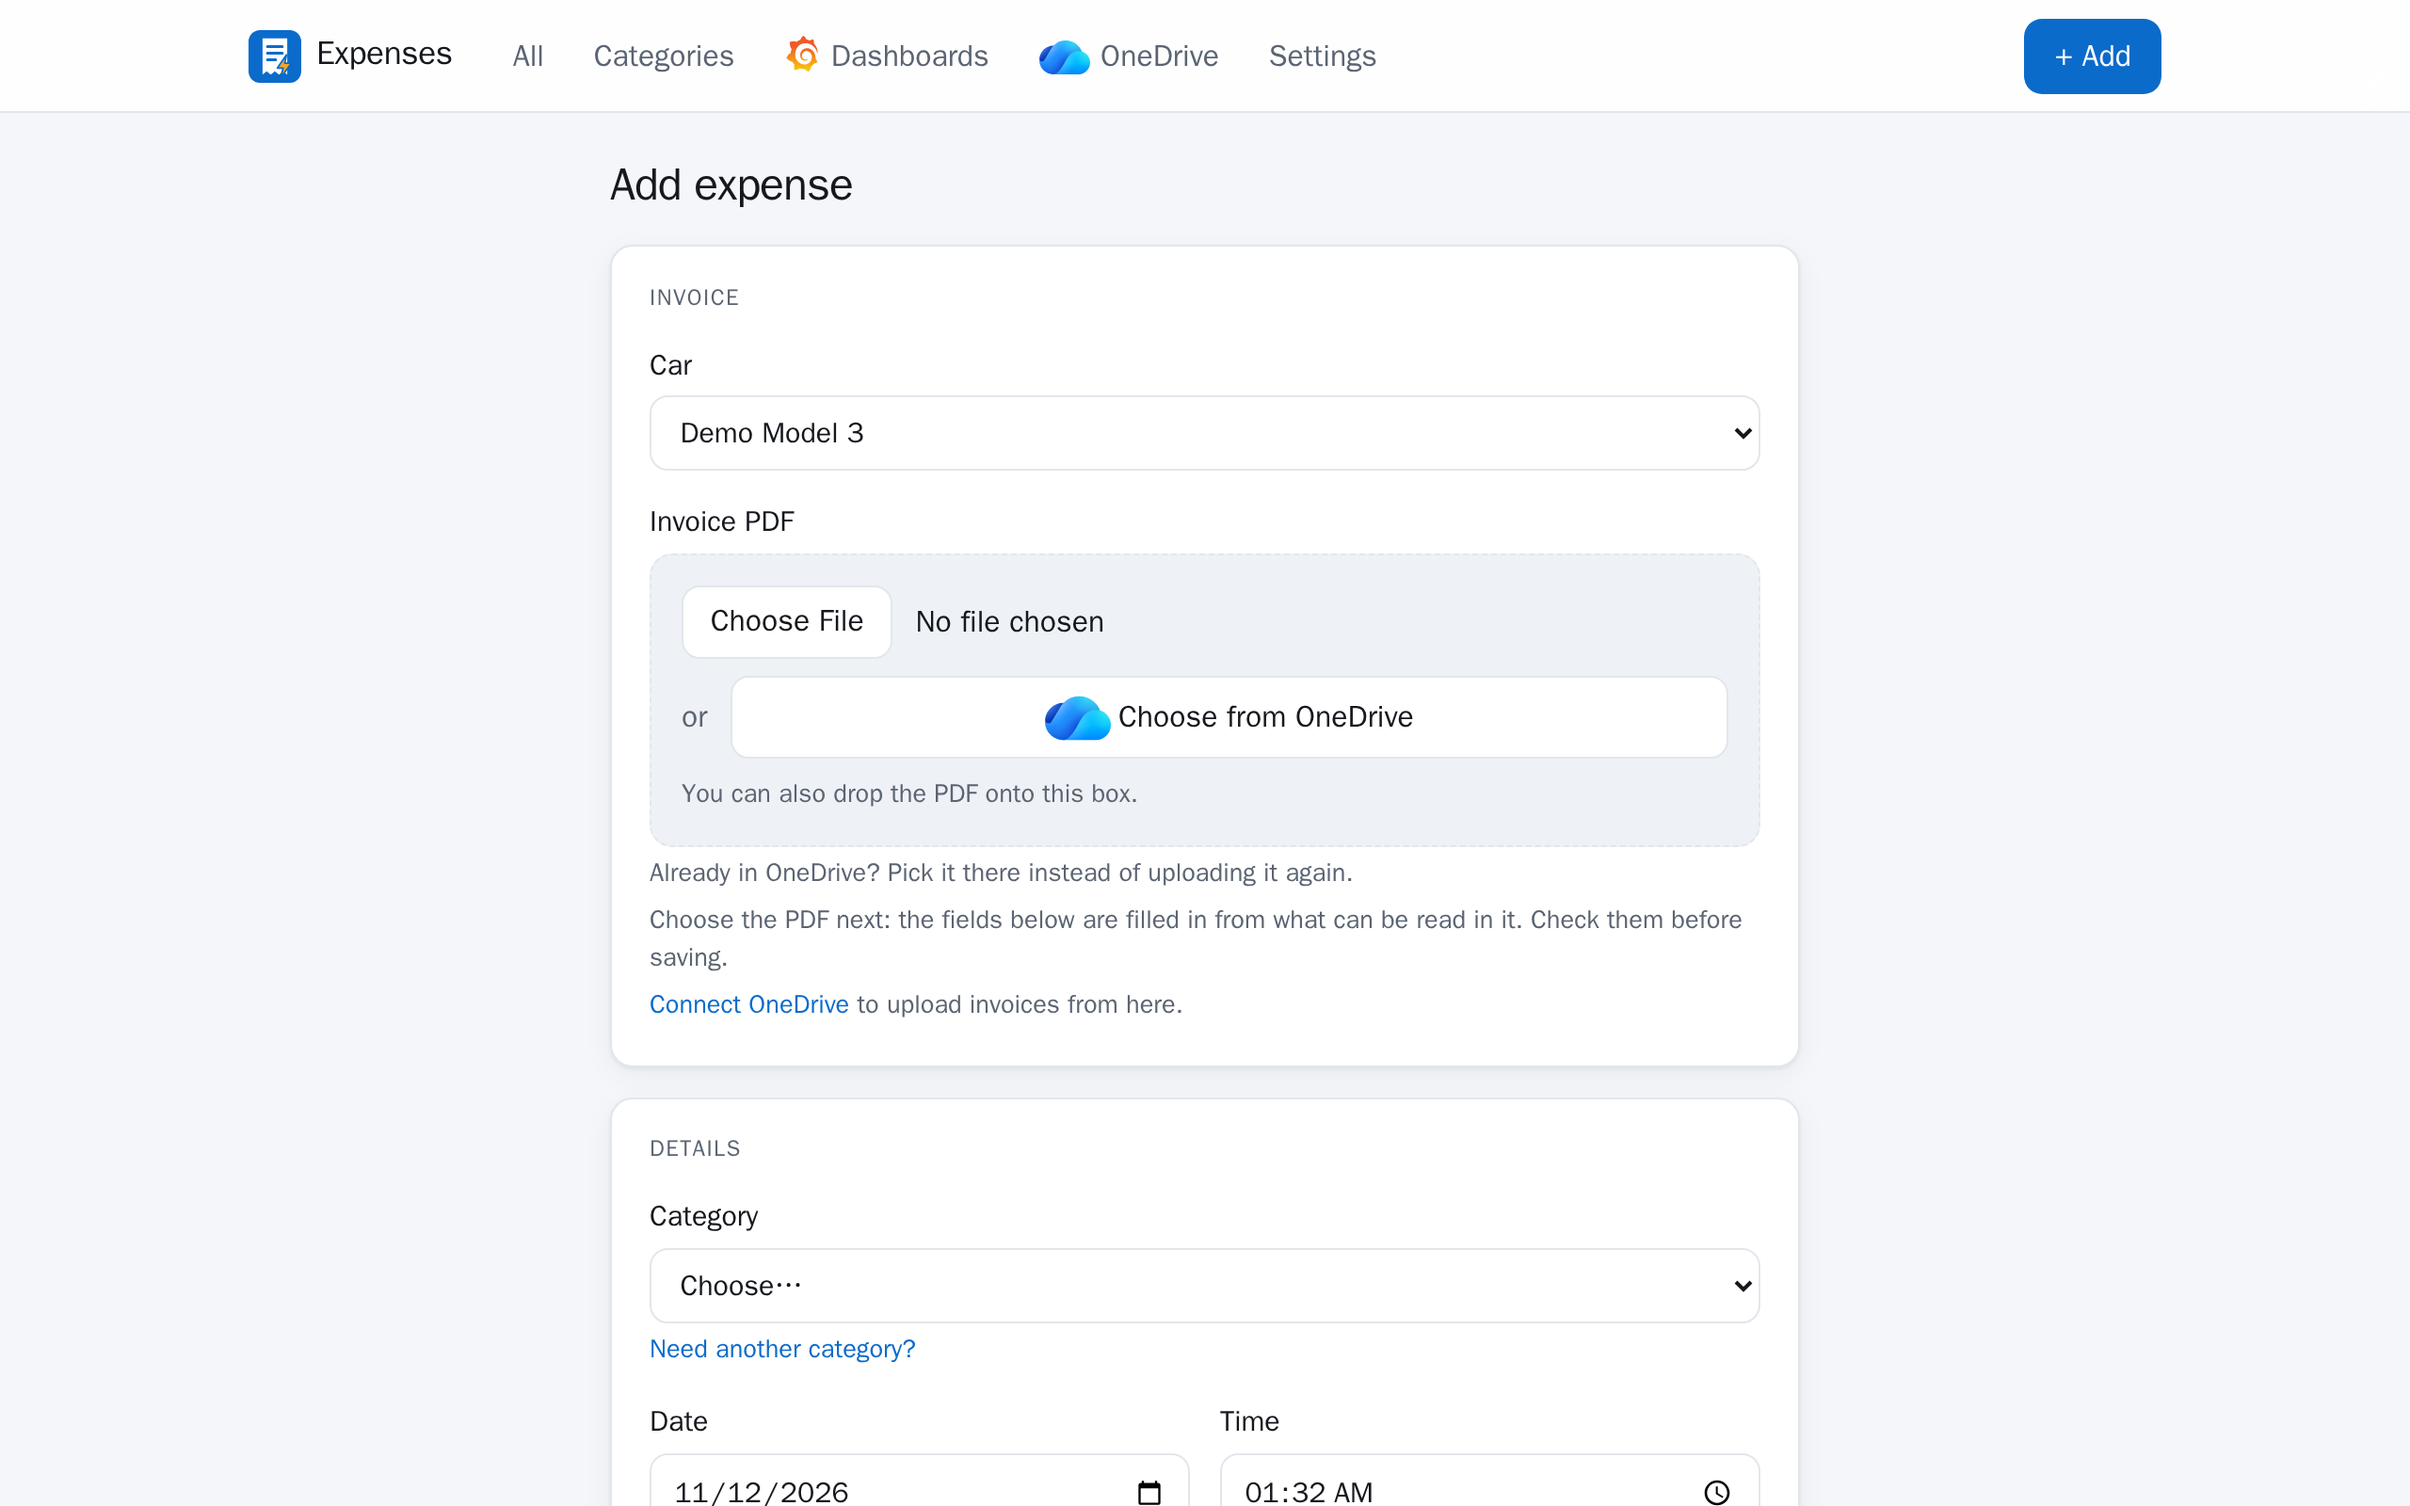
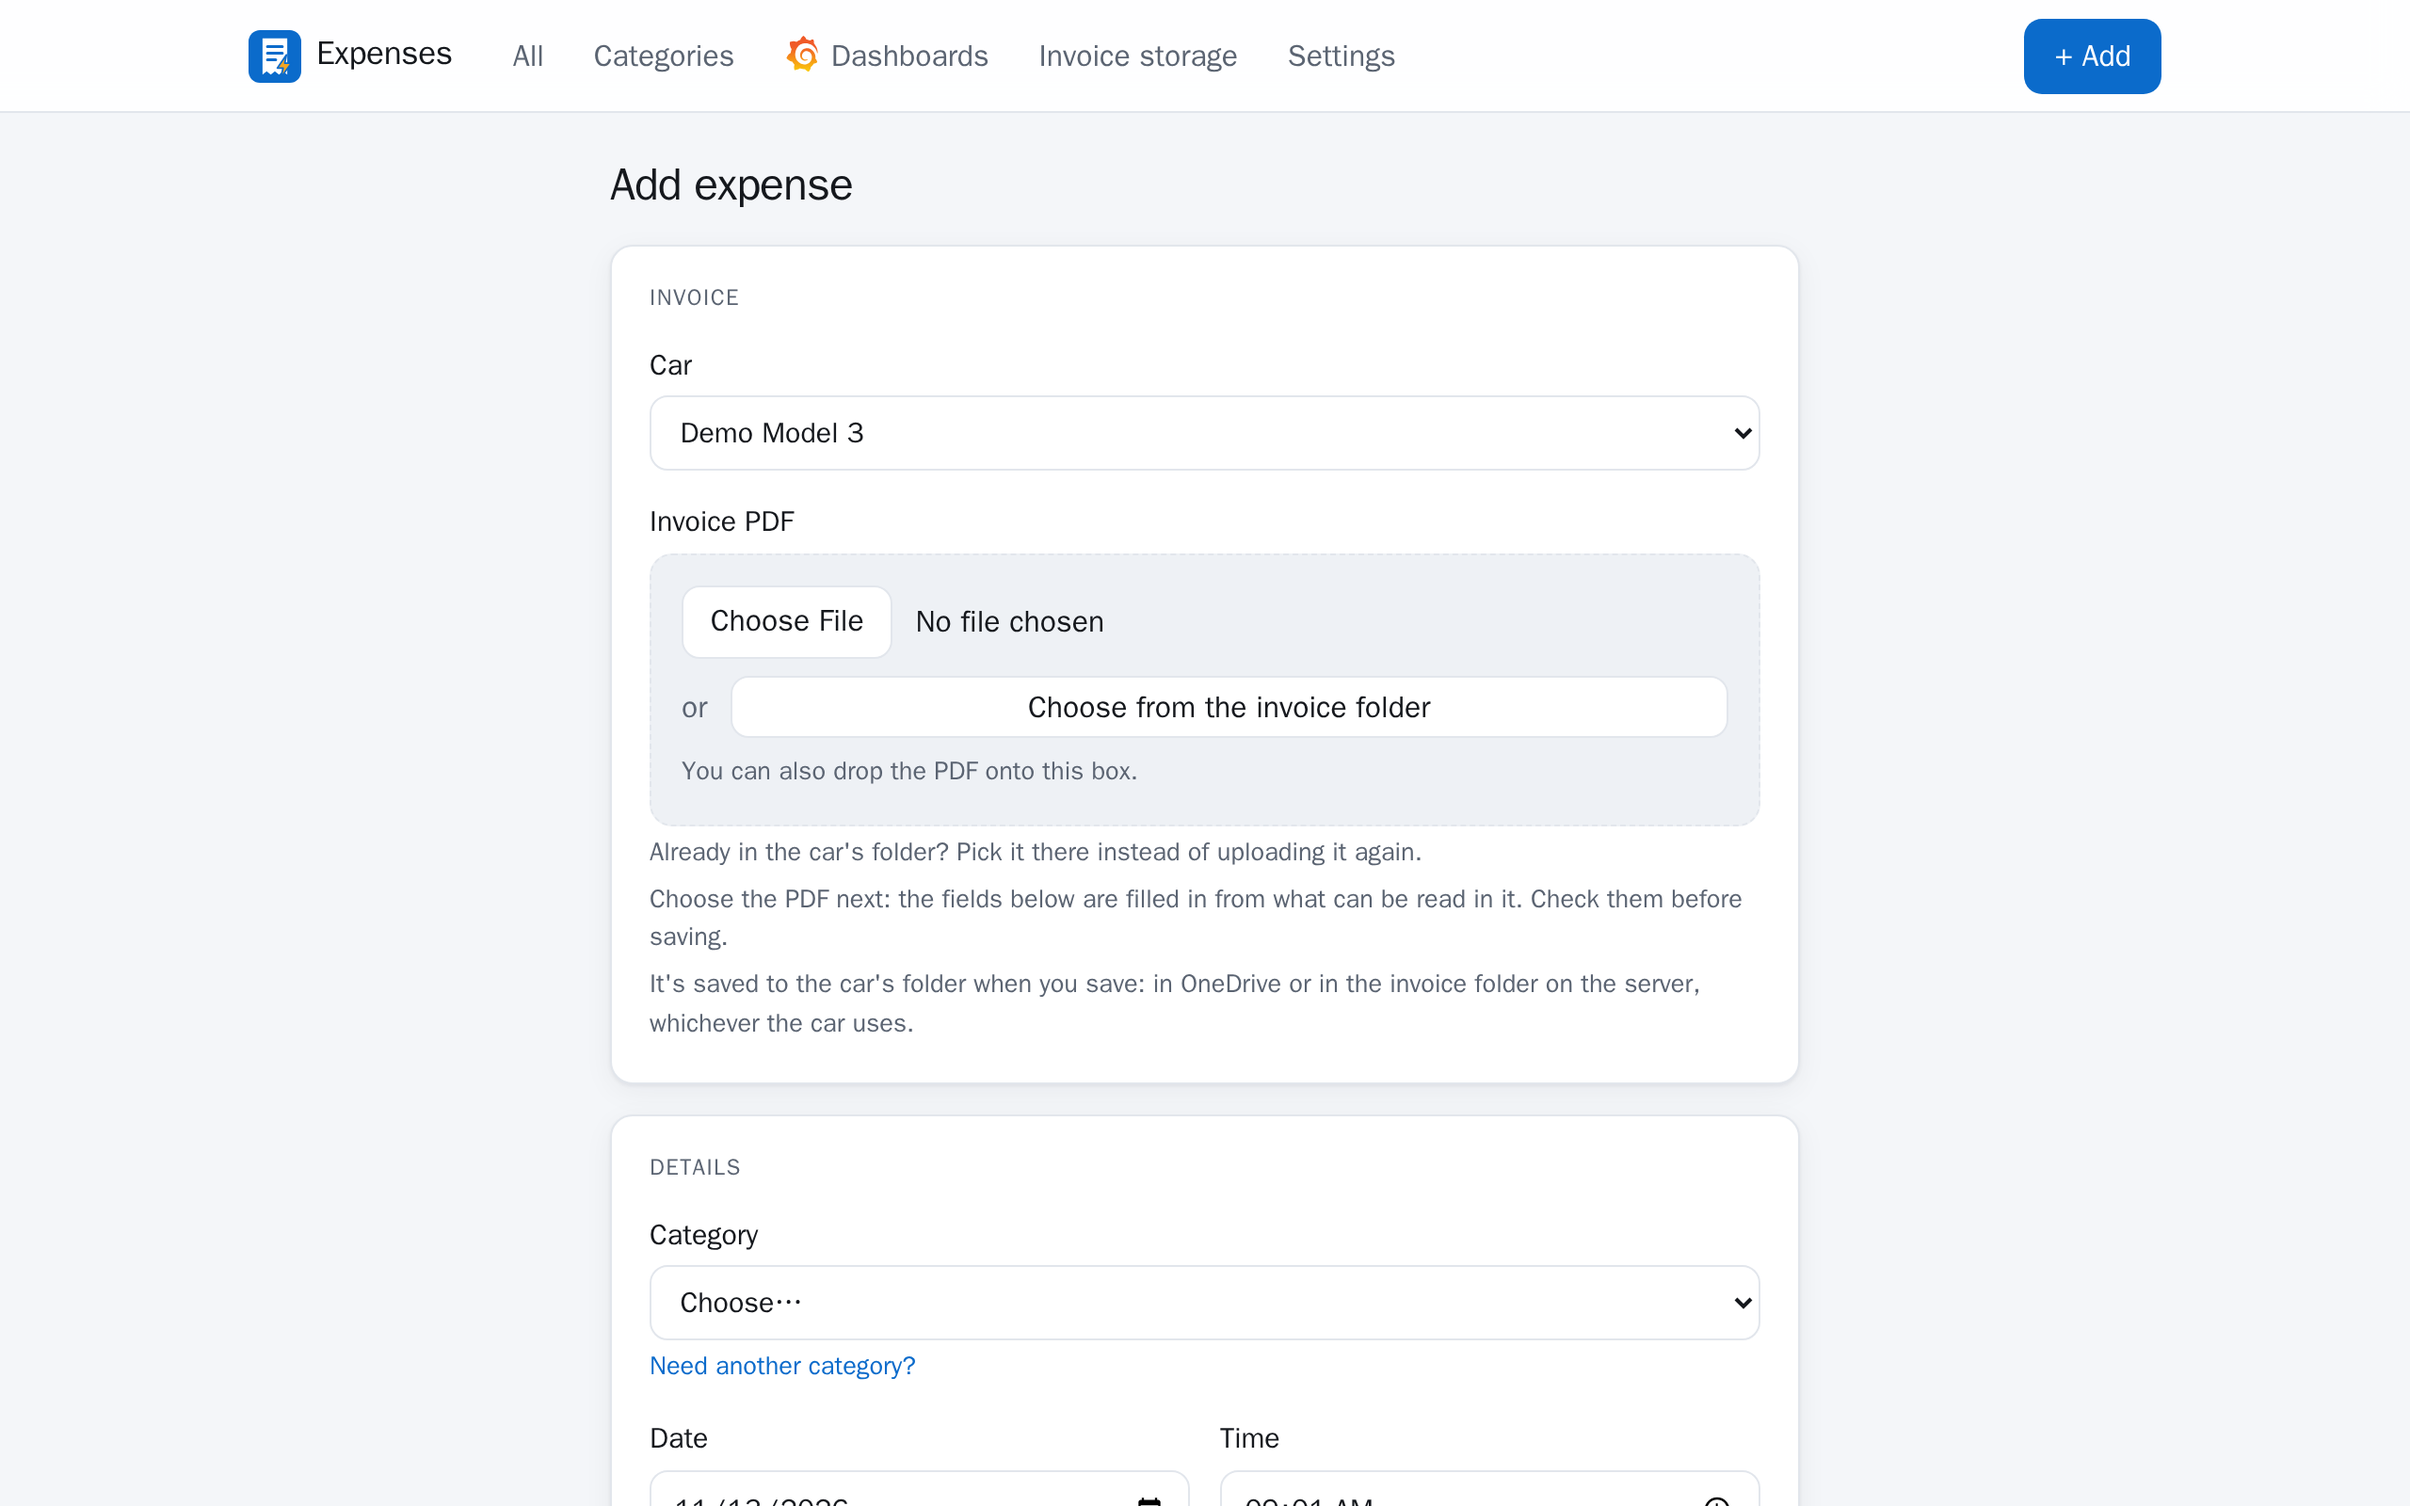
Docs: screenshots of Invoice storage, the folder window and the import preview
Taken from the demo stack, which now starts with made-up invoices in its
invoice folder and its car pointed at them (and shows an example path, not
this checkout's). The list, form and settings screenshots are retaken: the
header has one Invoice storage link where the OneDrive link was.

diff --git a/tests/browser/screenshots.py b/tests/browser/screenshots.py
@@ -6,6 +6,7 @@ It only reads: no expense is added, edited or deleted. Files go to OUT, named af
 """
 
 import os
+import re
 
 from playwright.sync_api import expect, sync_playwright
 
@@ -41,6 +42,22 @@ def main():
         page.fill("[name=grafana_url]", "https://teslamate.example.com/grafana/d/tm-expenses-tco/cost-of-ownership")
         page.fill("[name=expenses_url]", "https://teslamate.example.com/expenses/")
         shot(page, "settings-page", full_page=True)
+
+        # Invoice storage. The OneDrive card's setup steps show this stack's own callback address:
+        # fold them away, as they are once OneDrive is set up.
+        page.goto(UI + "storage")
+        page.evaluate("document.querySelectorAll('details').forEach((d) => { d.open = false; })")
+        shot(page, "storage-page", full_page=True)
+        car = re.search(r"local/import/(\d+)", page.locator("a[href*='local/import/']").first.get_attribute("href")).group(1)
+        page.goto(UI + "new")
+        page.click("#onedrive-pick")
+        expect(page.locator("#onedrive-picker-path")).to_have_text("/Sample invoices")
+        expect(page.locator("#onedrive-picker-list li").first).to_be_visible()
+        shot(page, "local-folder-picker")
+        # The import preview of the made-up invoices `demo up` put in the folder. Nothing is imported.
+        page.goto(UI + f"local/import/{car}")
+        expect(page.locator("#import-status-text")).to_have_text(re.compile(r"^Read \d+ PDF"), timeout=180000)
+        shot(page, "import-preview", full_page=True)
 
         big = browser.new_context(viewport={"width": 1600, "height": 1800}, device_scale_factor=1,
                                   color_scheme="light", locale="en-AU")

diff --git a/docs/local-folder.md b/docs/local-folder.md
@@ -11,7 +11,7 @@ folder you chose for that car. Invoices already in the folder can be
 [imported](importing.md), with the same preview and learning. Both can be on at once: each car uses
 one or the other.
 
-<!-- screenshot: storage-page - The Invoice storage page, with the folder on the server and a folder chosen for a car -->
+![The Invoice storage page, with the folder on the server and a folder chosen for a car](images/storage-page.png)
 
 ## Turning it on
 
@@ -117,7 +117,7 @@ opens over the form, in the car's folder: open a folder to go into it, or **Up**
 far as the top of the mounted folder. Choosing a PDF makes it the expense's invoice and fills in the
 form from what can be read in it. Nothing is copied or moved.
 
-<!-- screenshot: local-folder-picker - The invoice folder window on the Add expense form, listing folders and PDFs -->
+![The invoice folder window on the Add expense form, listing folders and PDFs](images/local-folder-picker.png)
 
 **Opening an invoice.** The **PDF** link in the expense list opens it in the browser's own PDF
 viewer. The edit page shows the file's name, with a **Download** link beside it, and a box to remove

diff --git a/CHANGELOG.md b/CHANGELOG.md
@@ -23,7 +23,8 @@ Each entry says what an installer must do to upgrade. Where nothing is said, pul
   (docs, "Invoice folder on the server"). To upgrade without it, pull the new image; the app adds two
   columns to its own tables on start. With a least-privilege role (`SKIP_MIGRATE=1`), re-run
   `scripts/provision-db.sh` as for any upgrade.
-- Docs and README: screenshots of the expense list, form, settings and Grafana dashboard.
+- Docs and README: screenshots of the expense list, form, settings, Grafana dashboard, the Invoice
+  storage page, the invoice folder window and the import preview.
 
 ## 0.2.0-rc5 - 2026-11-11
 

diff --git a/docs/importing.md b/docs/importing.md
@@ -12,7 +12,7 @@ importing (a brochure, say) and they stop being offered; **Offer them again** at
 brings them back. When you press Import with some files left unticked, the page asks whether to
 skip those too; choose Cancel to leave them for next time.
 
-<!-- screenshot: import-preview - The import table, with its guesses to check, correct and untick -->
+![The import table, with its guesses to check, correct and untick](images/import-preview.png)
 
 ## How it guesses
 
